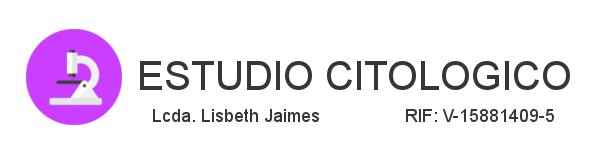
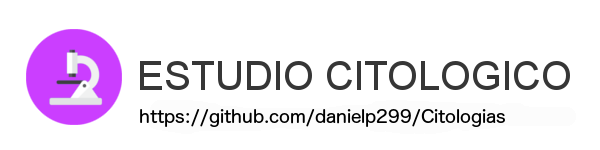
Se cambio la cabecera y la marca de agua

Changed region(s): [[0.21, 0.72, 0.93, 0.8533]]

diff --git a/src/danielpernia/citologias/principal/i_principal.java b/src/danielpernia/citologias/principal/i_principal.java
@@ -341,10 +341,10 @@ public class i_principal extends JFrame {
 		JLabel lblNewLabel_26 = new JLabel("ESTUDIO CITOLOGICO");
 		lblNewLabel_26.setFont(new Font("Tahoma", Font.BOLD, 24));
 		
-		JLabel lblNewLabel_27 = new JLabel("Lcda. Lisbeth Jaimes");
+		JLabel lblNewLabel_27 = new JLabel("");
 		lblNewLabel_27.setFont(new Font("Tahoma", Font.PLAIN, 16));
 		
-		JLabel lblNewLabel_28 = new JLabel("RIF: V-15881409-5");
+		JLabel lblNewLabel_28 = new JLabel("");
 		lblNewLabel_28.setFont(new Font("Tahoma", Font.PLAIN, 15));
 		
 		JPanel panel_4 = new JPanel();
@@ -360,14 +360,14 @@ public class i_principal extends JFrame {
 						.addGroup(gl_p_inicio.createSequentialGroup()
 							.addGap(254)
 							.addGroup(gl_p_inicio.createParallelGroup(Alignment.LEADING)
-								.addComponent(panel_4, GroupLayout.PREFERRED_SIZE, 405, GroupLayout.PREFERRED_SIZE)
 								.addComponent(lblNewLabel_26)
 								.addComponent(lblNewLabel_28)
-								.addComponent(lblNewLabel_27)))
+								.addComponent(lblNewLabel_27)
+								.addComponent(panel_4, GroupLayout.PREFERRED_SIZE, 482, GroupLayout.PREFERRED_SIZE)))
 						.addGroup(gl_p_inicio.createSequentialGroup()
 							.addContainerGap()
 							.addComponent(lblContactoDanielpgmailcom)))
-					.addContainerGap(615, Short.MAX_VALUE))
+					.addContainerGap(539, Short.MAX_VALUE))
 		);
 		gl_p_inicio.setVerticalGroup(
 			gl_p_inicio.createParallelGroup(Alignment.LEADING)
@@ -380,7 +380,7 @@ public class i_principal extends JFrame {
 					.addComponent(lblNewLabel_28)
 					.addGap(57)
 					.addComponent(panel_4, GroupLayout.PREFERRED_SIZE, 194, GroupLayout.PREFERRED_SIZE)
-					.addPreferredGap(ComponentPlacement.RELATED, 175, Short.MAX_VALUE)
+					.addPreferredGap(ComponentPlacement.RELATED, 281, Short.MAX_VALUE)
 					.addComponent(lblContactoDanielpgmailcom)
 					.addContainerGap())
 		);
@@ -2528,13 +2528,10 @@ public class i_principal extends JFrame {
 			gl_Usuarios.createParallelGroup(Alignment.LEADING)
 				.addGroup(gl_Usuarios.createSequentialGroup()
 					.addContainerGap()
-					.addGroup(gl_Usuarios.createParallelGroup(Alignment.TRAILING)
-						.addGroup(gl_Usuarios.createSequentialGroup()
-							.addComponent(lblNewLabel_36)
-							.addContainerGap(1189, Short.MAX_VALUE))
-						.addGroup(gl_Usuarios.createSequentialGroup()
-							.addComponent(panel_9, GroupLayout.DEFAULT_SIZE, 531, Short.MAX_VALUE)
-							.addGap(733))))
+					.addGroup(gl_Usuarios.createParallelGroup(Alignment.LEADING)
+						.addComponent(panel_9, GroupLayout.PREFERRED_SIZE, 816, GroupLayout.PREFERRED_SIZE)
+						.addComponent(lblNewLabel_36))
+					.addContainerGap(453, Short.MAX_VALUE))
 		);
 		gl_Usuarios.setVerticalGroup(
 			gl_Usuarios.createParallelGroup(Alignment.LEADING)
@@ -2542,8 +2539,8 @@ public class i_principal extends JFrame {
 					.addContainerGap()
 					.addComponent(lblNewLabel_36)
 					.addPreferredGap(ComponentPlacement.RELATED)
-					.addComponent(panel_9, GroupLayout.PREFERRED_SIZE, 212, GroupLayout.PREFERRED_SIZE)
-					.addContainerGap(370, Short.MAX_VALUE))
+					.addComponent(panel_9, GroupLayout.PREFERRED_SIZE, 264, GroupLayout.PREFERRED_SIZE)
+					.addContainerGap(339, Short.MAX_VALUE))
 		);
 		
 		JLabel lblNombre_1 = new JLabel("Cedula:");
@@ -2666,15 +2663,26 @@ public class i_principal extends JFrame {
 		gl_panel_9.setHorizontalGroup(
 			gl_panel_9.createParallelGroup(Alignment.LEADING)
 				.addGroup(gl_panel_9.createSequentialGroup()
-					.addGap(24)
+					.addGap(32)
 					.addGroup(gl_panel_9.createParallelGroup(Alignment.LEADING)
-						.addComponent(lblNombre_1)
-						.addComponent(lblRepitaContrasea_1)
-						.addComponent(lblNombre_2)
-						.addComponent(lblApellidos_2, GroupLayout.DEFAULT_SIZE, 112, Short.MAX_VALUE)
-						.addComponent(lblRol, GroupLayout.PREFERRED_SIZE, 74, GroupLayout.PREFERRED_SIZE)
-						.addComponent(lblContrasea_1, GroupLayout.PREFERRED_SIZE, 74, GroupLayout.PREFERRED_SIZE))
-					.addPreferredGap(ComponentPlacement.RELATED)
+						.addGroup(gl_panel_9.createSequentialGroup()
+							.addComponent(lblRepitaContrasea_1)
+							.addPreferredGap(ComponentPlacement.RELATED))
+						.addGroup(gl_panel_9.createParallelGroup(Alignment.LEADING)
+							.addComponent(lblNombre_1, GroupLayout.PREFERRED_SIZE, 101, GroupLayout.PREFERRED_SIZE)
+							.addGroup(gl_panel_9.createParallelGroup(Alignment.LEADING)
+								.addGroup(gl_panel_9.createSequentialGroup()
+									.addComponent(lblNombre_2, GroupLayout.PREFERRED_SIZE, 104, GroupLayout.PREFERRED_SIZE)
+									.addGap(18))
+								.addGroup(gl_panel_9.createSequentialGroup()
+									.addComponent(lblApellidos_2, GroupLayout.DEFAULT_SIZE, 112, Short.MAX_VALUE)
+									.addPreferredGap(ComponentPlacement.RELATED))
+								.addGroup(gl_panel_9.createSequentialGroup()
+									.addComponent(lblRol, GroupLayout.PREFERRED_SIZE, 74, GroupLayout.PREFERRED_SIZE)
+									.addPreferredGap(ComponentPlacement.RELATED))
+								.addGroup(gl_panel_9.createSequentialGroup()
+									.addComponent(lblContrasea_1, GroupLayout.PREFERRED_SIZE, 74, GroupLayout.PREFERRED_SIZE)
+									.addPreferredGap(ComponentPlacement.RELATED)))))
 					.addGroup(gl_panel_9.createParallelGroup(Alignment.LEADING)
 						.addGroup(gl_panel_9.createSequentialGroup()
 							.addGap(36)
@@ -2687,60 +2695,56 @@ public class i_principal extends JFrame {
 						.addGroup(gl_panel_9.createSequentialGroup()
 							.addGap(36)
 							.addComponent(passwordField_4, GroupLayout.PREFERRED_SIZE, 118, GroupLayout.PREFERRED_SIZE))
-						.addGroup(gl_panel_9.createParallelGroup(Alignment.LEADING)
-							.addGroup(gl_panel_9.createSequentialGroup()
-								.addComponent(comboBox_19, GroupLayout.PREFERRED_SIZE, GroupLayout.DEFAULT_SIZE, GroupLayout.PREFERRED_SIZE)
-								.addPreferredGap(ComponentPlacement.RELATED)
-								.addComponent(t_u_cedula, GroupLayout.PREFERRED_SIZE, 114, GroupLayout.PREFERRED_SIZE)
-								.addPreferredGap(ComponentPlacement.RELATED)
-								.addComponent(btnBuscar_1))
-							.addGroup(gl_panel_9.createSequentialGroup()
-								.addGap(36)
-								.addGroup(gl_panel_9.createParallelGroup(Alignment.LEADING)
-									.addGroup(gl_panel_9.createSequentialGroup()
-										.addComponent(btnGuardar_1)
-										.addPreferredGap(ComponentPlacement.RELATED)
-										.addComponent(btnActualizar, GroupLayout.PREFERRED_SIZE, 105, GroupLayout.PREFERRED_SIZE))
-									.addComponent(passwordField_5, GroupLayout.PREFERRED_SIZE, 118, GroupLayout.PREFERRED_SIZE)))))
-					.addContainerGap(126, Short.MAX_VALUE))
+						.addGroup(gl_panel_9.createSequentialGroup()
+							.addComponent(comboBox_19, GroupLayout.PREFERRED_SIZE, GroupLayout.DEFAULT_SIZE, GroupLayout.PREFERRED_SIZE)
+							.addPreferredGap(ComponentPlacement.RELATED)
+							.addComponent(t_u_cedula, GroupLayout.PREFERRED_SIZE, 114, GroupLayout.PREFERRED_SIZE)
+							.addPreferredGap(ComponentPlacement.RELATED)
+							.addComponent(btnBuscar_1))
+						.addGroup(gl_panel_9.createSequentialGroup()
+							.addGap(36)
+							.addGroup(gl_panel_9.createParallelGroup(Alignment.LEADING)
+								.addGroup(gl_panel_9.createSequentialGroup()
+									.addComponent(btnGuardar_1)
+									.addPreferredGap(ComponentPlacement.RELATED)
+									.addComponent(btnActualizar, GroupLayout.PREFERRED_SIZE, 105, GroupLayout.PREFERRED_SIZE))
+								.addComponent(passwordField_5, GroupLayout.PREFERRED_SIZE, 118, GroupLayout.PREFERRED_SIZE))))
+					.addGap(480))
 		);
 		gl_panel_9.setVerticalGroup(
 			gl_panel_9.createParallelGroup(Alignment.LEADING)
 				.addGroup(gl_panel_9.createSequentialGroup()
 					.addContainerGap()
-					.addGroup(gl_panel_9.createParallelGroup(Alignment.TRAILING)
-						.addGroup(gl_panel_9.createSequentialGroup()
-							.addComponent(lblNombre_1)
-							.addGap(8)
-							.addComponent(lblNombre_2, GroupLayout.PREFERRED_SIZE, 17, GroupLayout.PREFERRED_SIZE)
-							.addPreferredGap(ComponentPlacement.RELATED)
-							.addComponent(lblApellidos_2, GroupLayout.PREFERRED_SIZE, 17, GroupLayout.PREFERRED_SIZE)
-							.addPreferredGap(ComponentPlacement.RELATED)
-							.addComponent(lblRol, GroupLayout.PREFERRED_SIZE, 17, GroupLayout.PREFERRED_SIZE)
-							.addGap(11)
-							.addComponent(lblContrasea_1, GroupLayout.PREFERRED_SIZE, 17, GroupLayout.PREFERRED_SIZE)
-							.addPreferredGap(ComponentPlacement.UNRELATED)
-							.addComponent(lblRepitaContrasea_1, GroupLayout.PREFERRED_SIZE, 17, GroupLayout.PREFERRED_SIZE))
-						.addGroup(gl_panel_9.createSequentialGroup()
-							.addGroup(gl_panel_9.createParallelGroup(Alignment.BASELINE)
-								.addComponent(comboBox_19, GroupLayout.PREFERRED_SIZE, GroupLayout.DEFAULT_SIZE, GroupLayout.PREFERRED_SIZE)
-								.addComponent(t_u_cedula, GroupLayout.PREFERRED_SIZE, GroupLayout.DEFAULT_SIZE, GroupLayout.PREFERRED_SIZE)
-								.addComponent(btnBuscar_1))
-							.addPreferredGap(ComponentPlacement.RELATED)
-							.addComponent(t_u_nombre, GroupLayout.PREFERRED_SIZE, GroupLayout.DEFAULT_SIZE, GroupLayout.PREFERRED_SIZE)
-							.addPreferredGap(ComponentPlacement.RELATED)
-							.addComponent(t_u_apellido, GroupLayout.PREFERRED_SIZE, GroupLayout.DEFAULT_SIZE, GroupLayout.PREFERRED_SIZE)
-							.addPreferredGap(ComponentPlacement.RELATED)
-							.addComponent(comboBox_20, GroupLayout.PREFERRED_SIZE, GroupLayout.DEFAULT_SIZE, GroupLayout.PREFERRED_SIZE)
-							.addPreferredGap(ComponentPlacement.RELATED)
-							.addComponent(passwordField_4, GroupLayout.PREFERRED_SIZE, GroupLayout.DEFAULT_SIZE, GroupLayout.PREFERRED_SIZE)
-							.addPreferredGap(ComponentPlacement.RELATED)
-							.addComponent(passwordField_5, GroupLayout.PREFERRED_SIZE, GroupLayout.DEFAULT_SIZE, GroupLayout.PREFERRED_SIZE)))
+					.addGroup(gl_panel_9.createParallelGroup(Alignment.BASELINE)
+						.addComponent(comboBox_19, GroupLayout.PREFERRED_SIZE, GroupLayout.DEFAULT_SIZE, GroupLayout.PREFERRED_SIZE)
+						.addComponent(t_u_cedula, GroupLayout.PREFERRED_SIZE, GroupLayout.DEFAULT_SIZE, GroupLayout.PREFERRED_SIZE)
+						.addComponent(btnBuscar_1)
+						.addComponent(lblNombre_1))
+					.addPreferredGap(ComponentPlacement.RELATED)
+					.addGroup(gl_panel_9.createParallelGroup(Alignment.BASELINE)
+						.addComponent(t_u_nombre, GroupLayout.PREFERRED_SIZE, GroupLayout.DEFAULT_SIZE, GroupLayout.PREFERRED_SIZE)
+						.addComponent(lblNombre_2, GroupLayout.PREFERRED_SIZE, 17, GroupLayout.PREFERRED_SIZE))
+					.addPreferredGap(ComponentPlacement.RELATED)
+					.addGroup(gl_panel_9.createParallelGroup(Alignment.BASELINE)
+						.addComponent(t_u_apellido, GroupLayout.PREFERRED_SIZE, GroupLayout.DEFAULT_SIZE, GroupLayout.PREFERRED_SIZE)
+						.addComponent(lblApellidos_2, GroupLayout.PREFERRED_SIZE, 17, GroupLayout.PREFERRED_SIZE))
+					.addPreferredGap(ComponentPlacement.RELATED)
+					.addGroup(gl_panel_9.createParallelGroup(Alignment.BASELINE)
+						.addComponent(comboBox_20, GroupLayout.PREFERRED_SIZE, GroupLayout.DEFAULT_SIZE, GroupLayout.PREFERRED_SIZE)
+						.addComponent(lblRol, GroupLayout.PREFERRED_SIZE, 17, GroupLayout.PREFERRED_SIZE))
+					.addPreferredGap(ComponentPlacement.RELATED)
+					.addGroup(gl_panel_9.createParallelGroup(Alignment.BASELINE)
+						.addComponent(passwordField_4, GroupLayout.PREFERRED_SIZE, GroupLayout.DEFAULT_SIZE, GroupLayout.PREFERRED_SIZE)
+						.addComponent(lblContrasea_1, GroupLayout.PREFERRED_SIZE, 17, GroupLayout.PREFERRED_SIZE))
+					.addPreferredGap(ComponentPlacement.RELATED)
+					.addGroup(gl_panel_9.createParallelGroup(Alignment.BASELINE)
+						.addComponent(passwordField_5, GroupLayout.PREFERRED_SIZE, GroupLayout.DEFAULT_SIZE, GroupLayout.PREFERRED_SIZE)
+						.addComponent(lblRepitaContrasea_1, GroupLayout.PREFERRED_SIZE, 17, GroupLayout.PREFERRED_SIZE))
 					.addPreferredGap(ComponentPlacement.UNRELATED)
 					.addGroup(gl_panel_9.createParallelGroup(Alignment.BASELINE)
 						.addComponent(btnGuardar_1)
 						.addComponent(btnActualizar))
-					.addContainerGap(12, Short.MAX_VALUE))
+					.addContainerGap(25, Short.MAX_VALUE))
 		);
 		panel_9.setLayout(gl_panel_9);
 		Usuarios.setLayout(gl_Usuarios);

diff --git a/src/danielpernia/citologias/principal/manejador_PDF.java b/src/danielpernia/citologias/principal/manejador_PDF.java
@@ -23,6 +23,7 @@ import com.itextpdf.text.pdf.PdfWriter;
 public class manejador_PDF {
 	Image pie,cabeza;
 	Font font_sub_titulo,font_info,font_info_pequena;
+	
 	//conexion db = new conexion();
 	
 	public manejador_PDF() {
@@ -94,7 +95,7 @@ public class manejador_PDF {
 			//-----------------------------------------------------------------------------------------
 			
 			documento.addTitle("Estudio Citologico");
-			documento.addAuthor("Lisbeth Jaimes ");
+			documento.addAuthor("https://github.com/danielp299/Citologias");
 			documento.addSubject("Resultado de laboratorio");
 			documento.addCreationDate();
 			
@@ -149,7 +150,7 @@ public class manejador_PDF {
 			//-----------------------------------------------------------------------------------------
 			
 			documento.addTitle("Estudio Citologico");
-			documento.addAuthor("Lisbeth Jaimes ");
+			documento.addAuthor("https://github.com/danielp299/Citologias");
 			documento.addSubject("Resultado de laboratorio");
 			documento.addCreationDate();
 			
